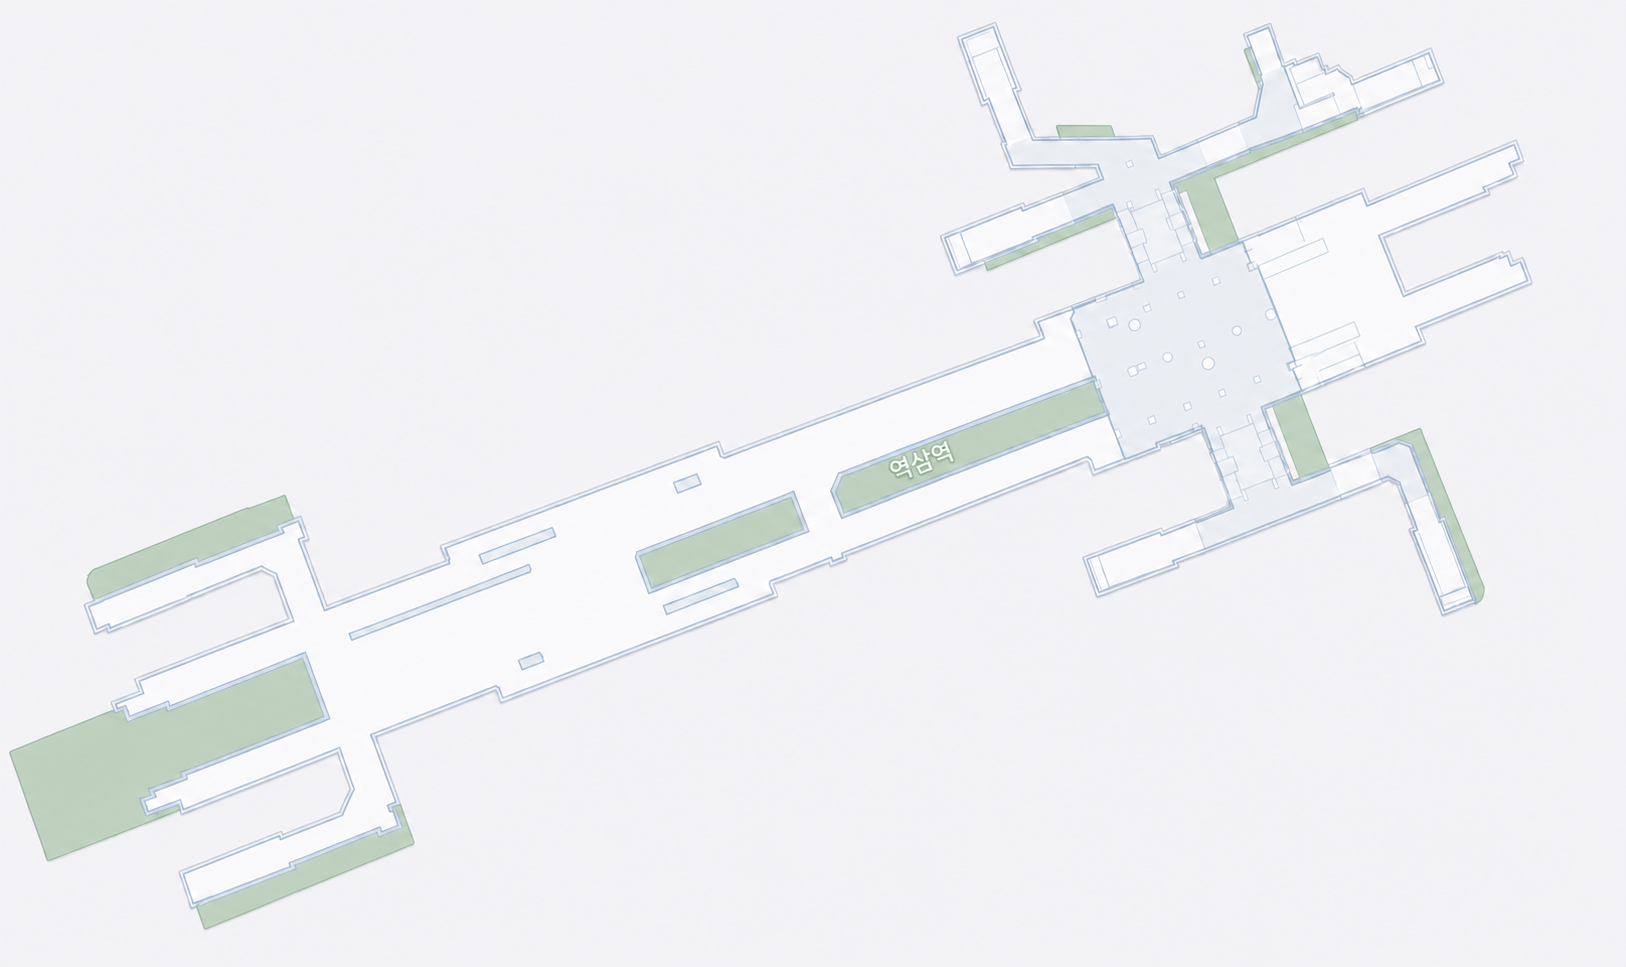
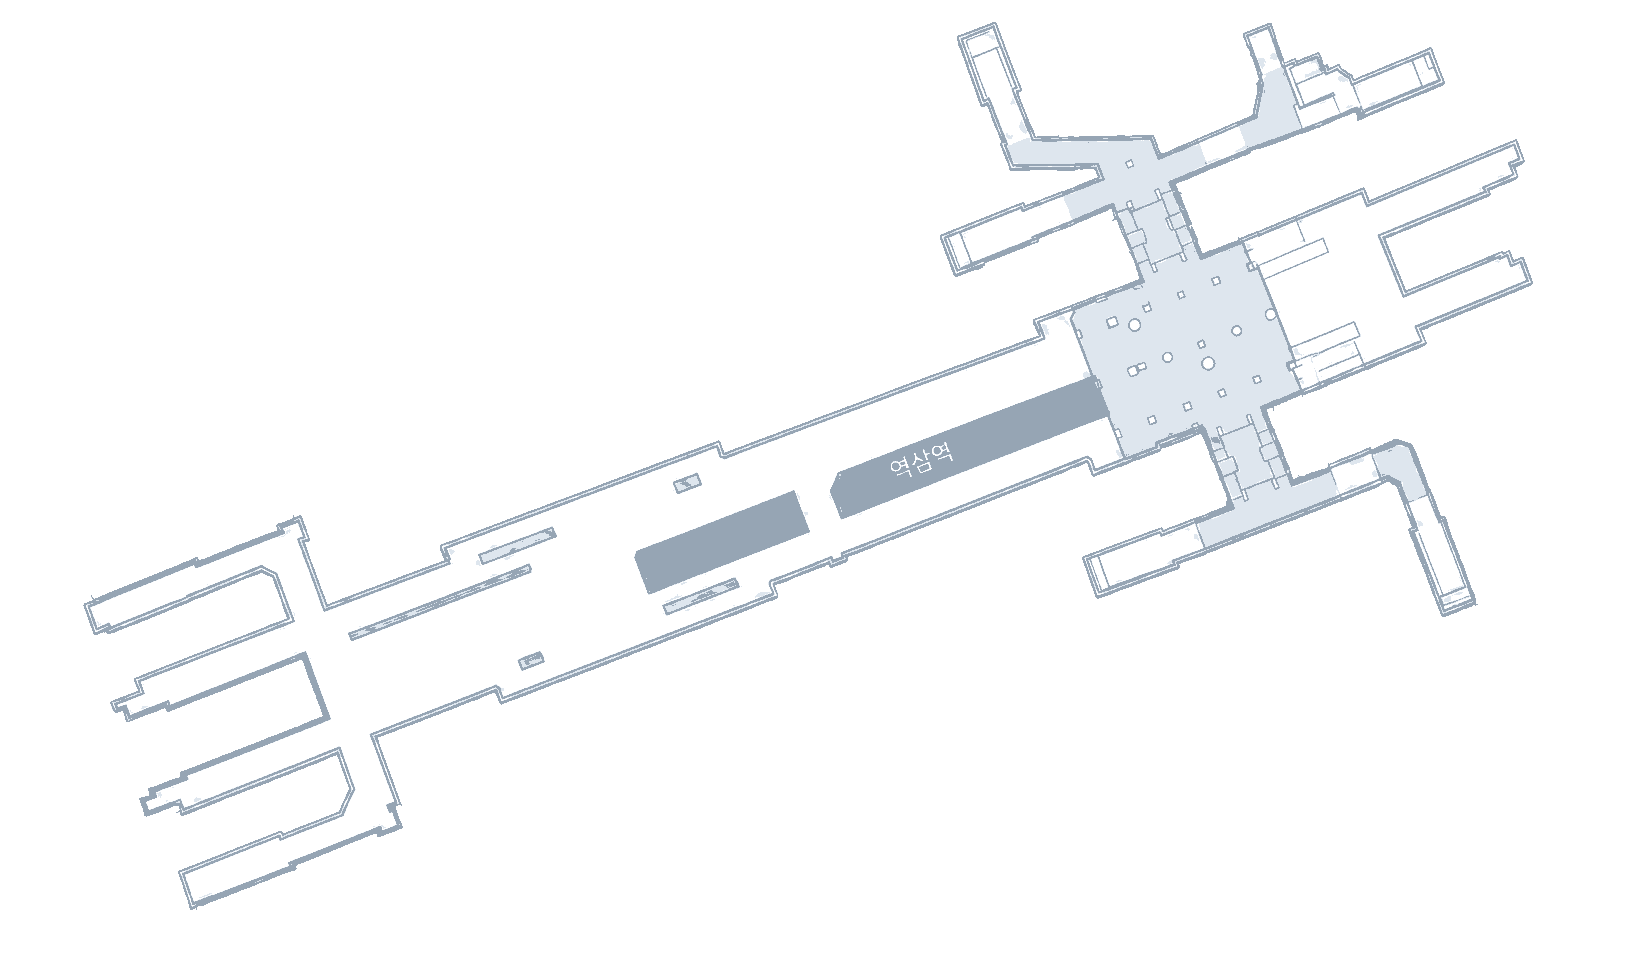
fix: 도면에서 실외 정보를 걷어내고 보행 공간을 구분해 표시 S15P11A206-79

diff --git a/frontend/src/widgets/indoor-map/ui/IndoorMapView.module.css b/frontend/src/widgets/indoor-map/ui/IndoorMapView.module.css
@@ -3,7 +3,10 @@
   width: 100%;
   height: 100%;
   overflow: hidden;
-  background: var(--color-background);
+  /* 역사 바깥이다. 도면이 그 영역을 투명하게 비워 두므로 이 색이 그대로 보인다.
+     값은 프로토타입 `.map`의 배경(#eef1f5)이다 — 앱 배경(연녹색)을 쓰면 실내 도면이
+     야외처럼 보인다. */
+  background: #eef1f5;
   /* 팬·줌을 직접 처리한다. 브라우저 기본 스크롤·확대·선택에 이벤트를 빼앗기면 안 된다. */
   touch-action: none;
   user-select: none;
@@ -21,18 +24,16 @@
    오버레이 SVG는 같은 박스에서 preserveAspectRatio 기본값(xMidYMid meet)으로 그려지는데,
    이는 contain과 같은 방식으로 여백을 만든다. 따라서 뷰포트가 가로로 넓든 세로로 길든
    이미지와 오버레이 좌표가 서로 어긋나지 않는다. */
+/**
+ * 도면은 역사 바깥이 투명하게 전처리돼 있다. 색 보정을 CSS로 하지 않는다 — 보행 공간과
+ * 배경의 밝기 차이가 8밖에 안 돼서(248 vs 240) 필터로는 갈라낼 수 없고, 영역을 픽셀로
+ * 판별해 이미지에 구워 넣었다. 자세한 내용은 entities/floor-map/model/localPlans.ts 참고.
+ */
 .image {
   display: block;
   width: 100%;
   height: 100%;
   object-fit: contain;
-
-  /* 지상 필지의 연두색을 걷어낸다.
-     실내지도에 필요 없는 정보인데, 캡쳐 시점이 달라 층마다 모양이 제각각이라 층을 바꿀 때
-     지도가 튀어 보이는 원인이 된다 — 층 간 화면 차이의 24~38%가 이 색이었다.
-     걷어내면 프로토타입의 지도 바탕(#eef1f5 계열 회청색)에도 더 가까워진다.
-     대비를 더 올리면 옅은 벽선이 흰색으로 밀려 오히려 흐려지므로 1.12에서 멈춘다. */
-  filter: saturate(18%) contrast(1.12);
 }
 
 .status {

diff --git a/frontend/src/entities/floor-map/model/localPlans.ts b/frontend/src/entities/floor-map/model/localPlans.ts
@@ -15,6 +15,18 @@ import type { CoordinateFrame } from './types';
  * 하며, 잘라내거나 배치를 바꾸면 프레임을 다시 측정해야 한다. 아래 파일들은 V9 seed의 기준
  * 크기와 정확히 같다(B1 1626×967, B2 1624×969, B3 1659×948).
  *
+ * **파일은 캡쳐 원본이 아니라 전처리본이다.** 원본은 지도 앱 화면을 캡쳐한 것이라 배경
+ * 그라데이션·드롭섀도와 지상 필지(연두색)가 함께 담겨 있었고, 보행 공간(밝기 248)과 배경
+ * (밝기 240)의 차이가 8밖에 안 돼 통로가 눈에 들어오지 않았다. 그래서 가장자리에서 채워
+ * 들어가 역사 바깥을 판별한 뒤 다음과 같이 다시 칠했다.
+ *
+ * - 역사 바깥·지상 필지 → 투명 (뷰포트 배경이 비친다)
+ * - 보행 공간 → 흰색
+ * - 방·구조물 → 연회색, 벽·해칭 → 중간 회색
+ *
+ * 픽셀 크기는 건드리지 않았으므로 프레임은 그대로 성립한다. 부수 효과로 파일이 1.0~1.5MB에서
+ * 약 50KB로 줄었다(합계 3.9MB → 154KB). 캡쳐 원본은 커밋 e69f9e9에 남아 있다.
+ *
  * TODO: 관리자 업로드(FR-A-002)로 도면이 등록되면 응답의 `mapUrl`이 채워지므로 이 모듈은
  * 지워도 된다. 다른 역이 추가되면 그 역의 도면은 여기 없으므로 업로드가 선행되어야 한다.
  */
